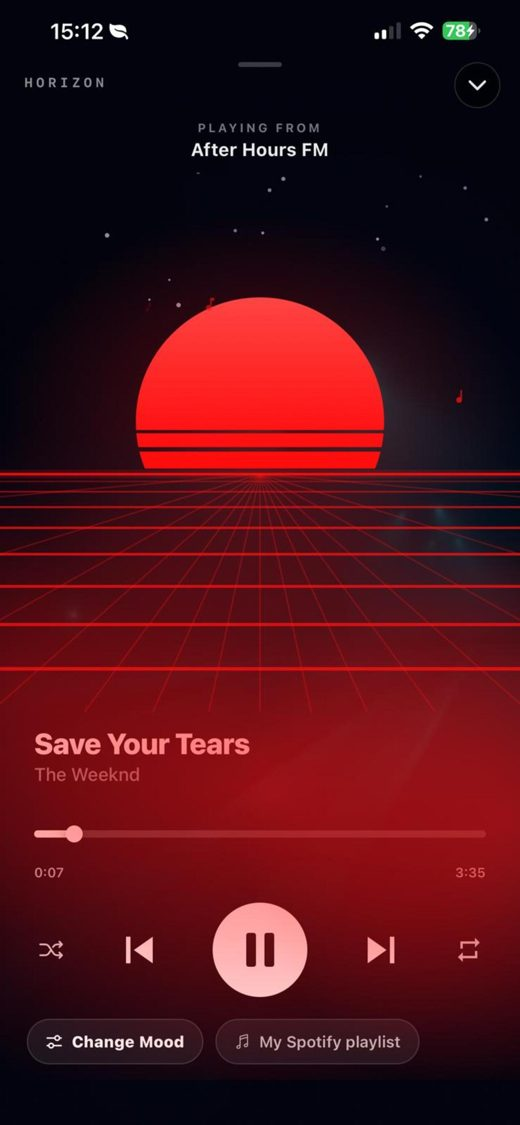
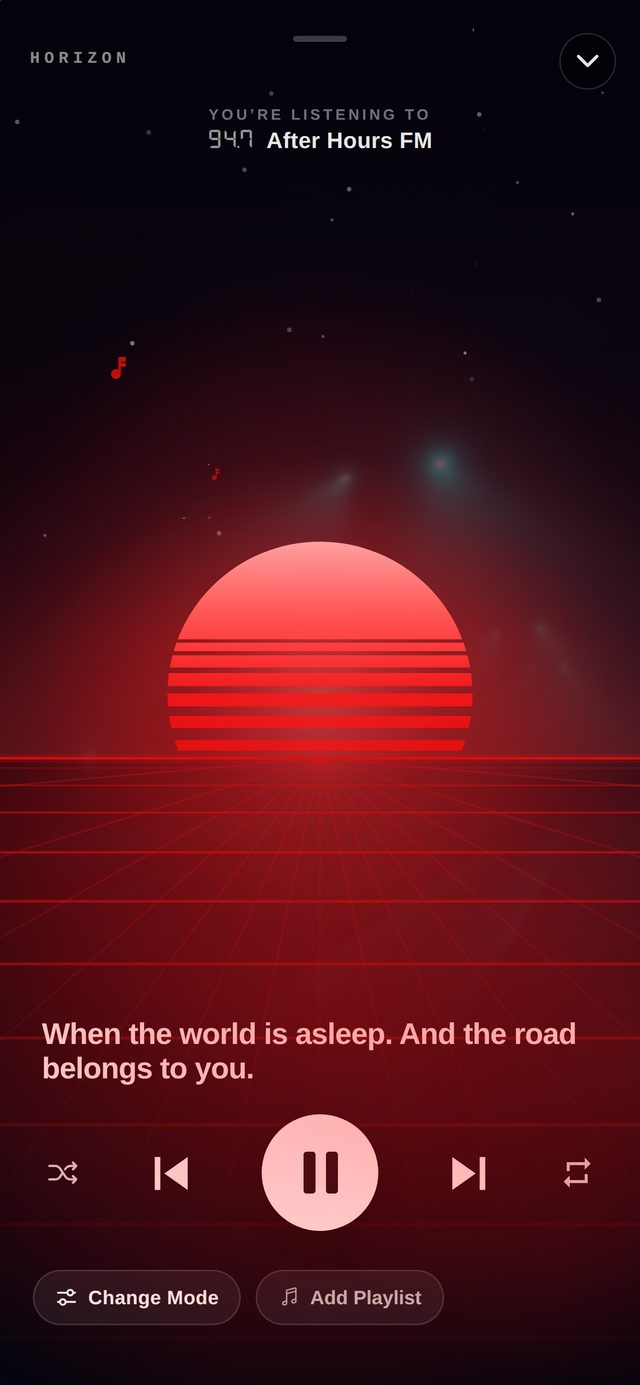
Website showcase: nine current screens, replacing artwork from 23 July
Five of the six images on the site were shot on 23 July and predate the
Mirror Ball rounds, the Stations page rebuild, the Tuner's dual-band dial,
the Equalizer's LED meter and the Horizon rebuild. The site was advertising
an app that no longer looks like that.

Regenerated from screenshots-appstore — the RAW device captures, not the
captioned marketing slides, because the site frames each one in its own CSS
phone and a baked-in headline would read as a caption printed on the screen.
Resized to 640 wide (displayed at 240, so retina with room spare) which keeps
each around 60KB.

Also grew the strip from six to nine: added CD and Circular EQ, which were
never shown at all, and the stations dial, and put Mirror Ball first since it
is the strongest single image.

Verified in a browser: nine images, none failing to load once the strip is
scrolled (the last two are lazy and off-screen until then), no broken
requests, footer credits Strofi Technologies.

Also recorded the store name decision — "Cruise FM: Driving Visuals" — with
the warning that it is the LISTING name only and expo.name must not change,
since iOS truncates the home-screen name at about twelve characters.

Claude-Session: https://claude.ai/code/session_01QfXMCYhSHowDeZKzYgKa2H

diff --git a/website/index.html b/website/index.html
@@ -286,12 +286,15 @@
     <p class="sub">Real screenshots, real songs, zero mock-ups. Swipe through.</p>
   </div>
   <div class="shots" aria-label="App screenshots">
-    <div class="shot"><img src="img/vinyl.jpg" alt="Vinyl mode on Sunset AM" loading="lazy"></div>
-    <div class="shot"><img src="img/horizon.jpg" alt="Horizon mode on After Hours FM" loading="lazy"></div>
-    <div class="shot"><img src="img/tuner.jpg" alt="Tuner mode on Mountain Pass FM" loading="lazy"></div>
     <div class="shot"><img src="img/mirrorball.jpg" alt="Mirror Ball mode on Downtown FM" loading="lazy"></div>
+    <div class="shot"><img src="img/vinyl.jpg" alt="Vinyl mode on Sunset AM" loading="lazy"></div>
+    <div class="shot"><img src="img/stations.jpg" alt="The stations dial, AM and FM bands" loading="lazy"></div>
+    <div class="shot"><img src="img/horizon.jpg" alt="Horizon mode on After Hours FM" loading="lazy"></div>
     <div class="shot"><img src="img/cassette.jpg" alt="Cassette mode on Daylight AM" loading="lazy"></div>
-    <div class="shot"><img src="img/equalizer.jpg" alt="Equalizer mode on Downtown FM" loading="lazy"></div>
+    <div class="shot"><img src="img/cd.jpg" alt="CD mode on Coastal FM" loading="lazy"></div>
+    <div class="shot"><img src="img/tuner.jpg" alt="Tuner mode on Night Run AM" loading="lazy"></div>
+    <div class="shot"><img src="img/circulareq.jpg" alt="Circular EQ mode on Tunnel FM" loading="lazy"></div>
+    <div class="shot"><img src="img/equalizer.jpg" alt="Equalizer mode on Mountain Pass FM" loading="lazy"></div>
   </div>
   <p class="shots-hint">← swipe →</p>
 </section>

diff --git a/docs/launch/app-store-listing.md b/docs/launch/app-store-listing.md
@@ -53,25 +53,25 @@ Kept `driving` alongside the subtitle's `drive` on purpose: Apple handles
 plurals but is unreliable about derived forms, so the two are worth holding
 separately.
 
-## App name (30 characters) — the biggest untouched lever
-
-The name field is the **highest-weighted** thing in App Store search, and ours
-spends all of it on the brand: "Cruise FM" is nine characters carrying no search
-terms at all.
-
-The standard move is a keyword suffix, e.g.:
+## App name (30 characters) — DECIDED 10.08
 
 > Cruise FM: Driving Visuals
 
-(26 characters — adds *driving* and *visuals* to the strongest field.)
+(26 characters.) The name field is the **highest-weighted** thing in App Store
+search, and the old name spent all of it on the brand — "Cruise FM" is nine
+characters carrying no search terms at all. The suffix puts *driving* and
+*visuals* into the strongest field there is.
 
-**This is a real trade and it is the owner's call, not a technical one.** A bare
-name reads more confident and looks better in a screenshot; a suffixed one is
-found by people who don't know it exists. With no marketing budget, being
-findable is worth more than looking pure — but it is her brand.
+**THIS IS THE STORE LISTING NAME ONLY. Do not change `expo.name` in app.json.**
+That field is what appears under the icon on the home screen, where iOS
+truncates at roughly twelve characters — "Cruise FM: Dri…" would be the result.
+The two names are set in different places and are meant to differ: the listing
+name is for being found, the home-screen name is for being recognised. No code
+change is involved in this at all.
 
-Note the name belongs to an app *version*, so changing it means a new version
-submission. Batch it with the next build rather than doing it alone.
+Set it in App Store Connect on the next version. The name belongs to an app
+*version*, so it needs a version submission — batch it with the 1.3.0 build
+rather than submitting for it alone.
 
 ## Description (max 4000 characters)
 
